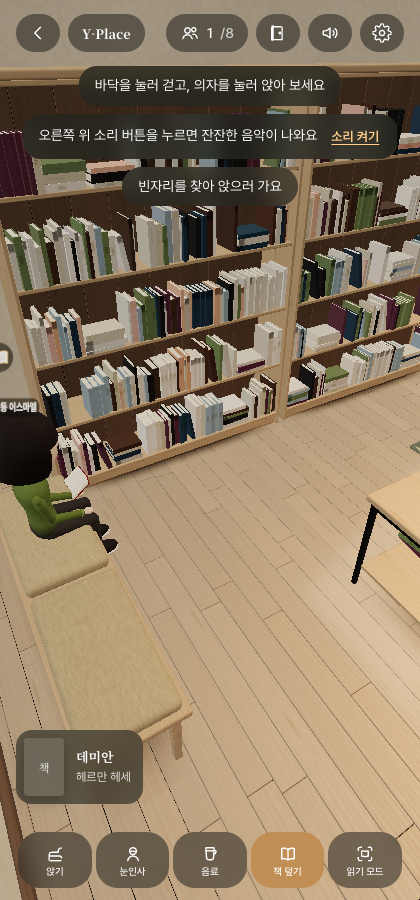
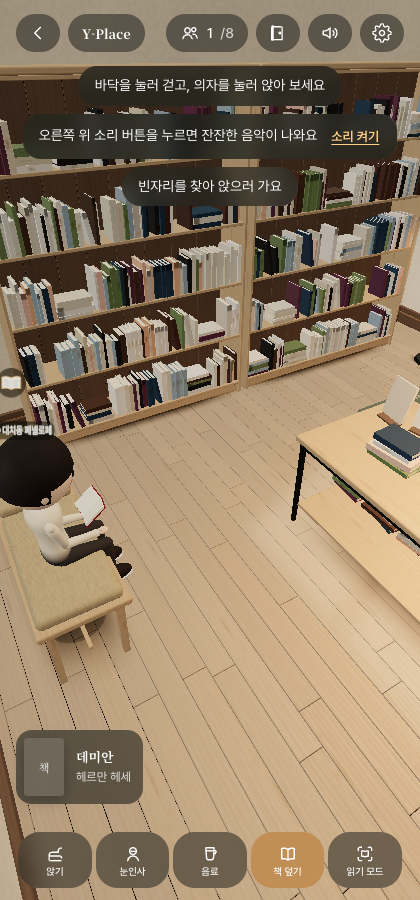
입장 자리를 뒷벽에서 떼어 입장 직후 내 아바타가 보이게 함

diff --git a/src/scene/layout.ts b/src/scene/layout.ts
@@ -89,7 +89,8 @@ function emptyBase(id: SpaceId, label: string, room: RoomBounds): Omit<SpaceLayo
 }
 
 function makeShop(): SpaceLayout {
-  const spawn = { x: 0.1, z: 1.6, ry: Math.PI };
+  // 뒷벽에서 1.2m 이상 떨어져야 따라가기 카메라가 아바타 뒤에 설 자리가 생긴다
+  const spawn = { x: 0.1, z: 1.05, ry: Math.PI };
   const armchairs = [{ x: -1.25, z: -1.48, ry: .18 }, { x: .12, z: -1.48, ry: -.25 }];
   return { ...emptyBase('shop', 'Y-Place', roomOf(5.5, 4.5, 2.8)),
     openings: [{ cx: -.85, w: 2.75, y0: .65, y1: 2.45, kind: 'window' }],
@@ -123,7 +124,8 @@ function makeCircle(): SpaceLayout {
     const x = Math.sin(angle) * 1.08, z = Math.cos(angle) * 1.08;
     return { x, z, ry: Math.atan2(-x, -z) + r.range(-0.025, 0.025) };
   });
-  const spawn = { x: -1.35, z: 1.45, ry: Math.PI };
+  // 뒷벽에서 떨어뜨려 카메라가 아바타 뒤에 서게 한다(의자와도 0.7m 이상)
+  const spawn = { x: -1.45, z: 0.95, ry: Math.PI };
   return { ...emptyBase('circle', '작은 모임방', roomOf(4.2, 4.2, 2.7)),
     openings: [],
     shelves: [{ x: 1.88, z: -0.95, ry: -Math.PI / 2, w: 1.2, wing: 'C' }],
@@ -134,7 +136,7 @@ function makeCircle(): SpaceLayout {
       from: { x: c.x * 1.35, z: c.z * 1.35 } })),
     floorLamps: [], floorPlants: [{x: -1.7, z: -0.7, scale: 0.8}],
     pendants: [{ x: 0, z: 0, drop: 0.65 }],
-    spawn, spawns: [spawn, { x: 1.5, z: 1.5, ry: Math.PI }],
+    spawn, spawns: [spawn, { x: 1.45, z: 0.95, ry: Math.PI }],
     portals: [{ to: 'shop', x: -1.25, z: -2.02, ry: 0, w: 0.86, d: 0.16, label: 'Y-Place' }],
   };
 }

diff --git a/src/app.ts b/src/app.ts
@@ -933,6 +933,7 @@ export async function startApp(
     peekBook: (title: string, author: string, publisher: string) => bookPeek.open({ nickname: 'Y-Place 운영자', book: { title, author, publisher, coverUrl: null } as never }),
     sipNow: (kind: Parameters<typeof me.avatar.anim.sip>[0]) => me.avatar.anim.sip(kind),
     setReading: (on: boolean) => movement.setReading(on),
+    meVisible: () => me.root.visible,
     debugLook: (look: Parameters<typeof me.avatar.setLook>[0]) => me.avatar.setLook(look),
     walkTo: (x: number, z: number) => movement.walkTo({ x, z }),
     space: () => currentSpaceId(),

diff --git a/docs/screens/REVIEW.md b/docs/screens/REVIEW.md
@@ -43,4 +43,10 @@
 - 07-avatar-circle-read / circle-side: 모임방 의자에 앉아 무릎이 접히고 발이 의자 앞에 매달림. 양손으로 책을 가슴 앞에 듦. 이름표가 머리 위에 붙음.
 - 07-avatar-follow-sit: 기본 따라가기 시점에서 창가 안락의자에 앉은 모습.
 - 콘솔 오류 0. e2e 5/5(58초), 좌석 경로·정원 검사 통과. 05-* 캡처도 새 아바타로 갱신됨.
-- 남은 점: 입장 직후 따라가기 시점은 뒷벽에 붙은 스폰 위치 때문에 내 아바타가 1인칭처럼 숨겨짐(기존 동작과 같음, 이번 변경 범위 밖).
+- 입장 직후 내 아바타가 숨겨지던 문제는 8에서 해결.
+
+## 8 — 입장 직후 내 아바타 보이기 (2026-11-10)
+- 원인: 입장 자리가 뒷벽에서 0.6~0.65m라 따라가기 카메라가 머리 바로 뒤에 붙고, 1인칭 처리로 내 아바타가 숨겨짐(공개 사이트에서도 재현).
+- 서점 입장 자리 z 1.6→1.05, 모임방 두 입장 자리 z 1.45/1.5→0.95로 옮김(의자·매대와 0.5m 이상 간격).
+- 08-entry-desktop-shop / desktop-circle / mobile-shop / mobile-circle: 네 화면 모두 `meVisible() === true`, 아바타와 이름표가 보임. 콘솔 오류 0.
+- 좌석 경로·정원 검사, e2e 5/5(57초) 통과.

diff --git a/PROGRESS.md b/PROGRESS.md
@@ -76,3 +76,8 @@
 - 이름표 높이(HEAD_TOP), 따라가기 카메라 높이, 읽기 모드 구도, 1인칭 숨김 기준(HEAD_Y)을 새 키에 맞춤.
 - 캡처용 디버그 `setReading`·`debugLook`과 `scripts/capture-avatar.mjs` 추가.
 - typecheck/build, 좌석 경로·정원 검사, e2e 5/5 통과. 07-avatar-* 캡처 직접 확인, 콘솔 오류 0.
+
+### 2026-11-10 — 입장 직후 내 아바타가 숨겨지던 문제
+- 입장 자리가 뒷벽에 붙어 카메라가 물러날 공간이 없었음. 서점 (0.1, 1.6)→(0.1, 1.05), 모임방 (-1.35, 1.45)→(-1.45, 0.95), (1.5, 1.5)→(1.45, 0.95).
+- 디버그 `meVisible`과 `scripts/capture-entry.mjs`(두 방 × 데스크톱·모바일 입장 시점) 추가. 4개 화면 모두 아바타 보임, 콘솔 오류 0.
+- typecheck/build, 좌석 경로·정원 검사, e2e 5/5 통과.
